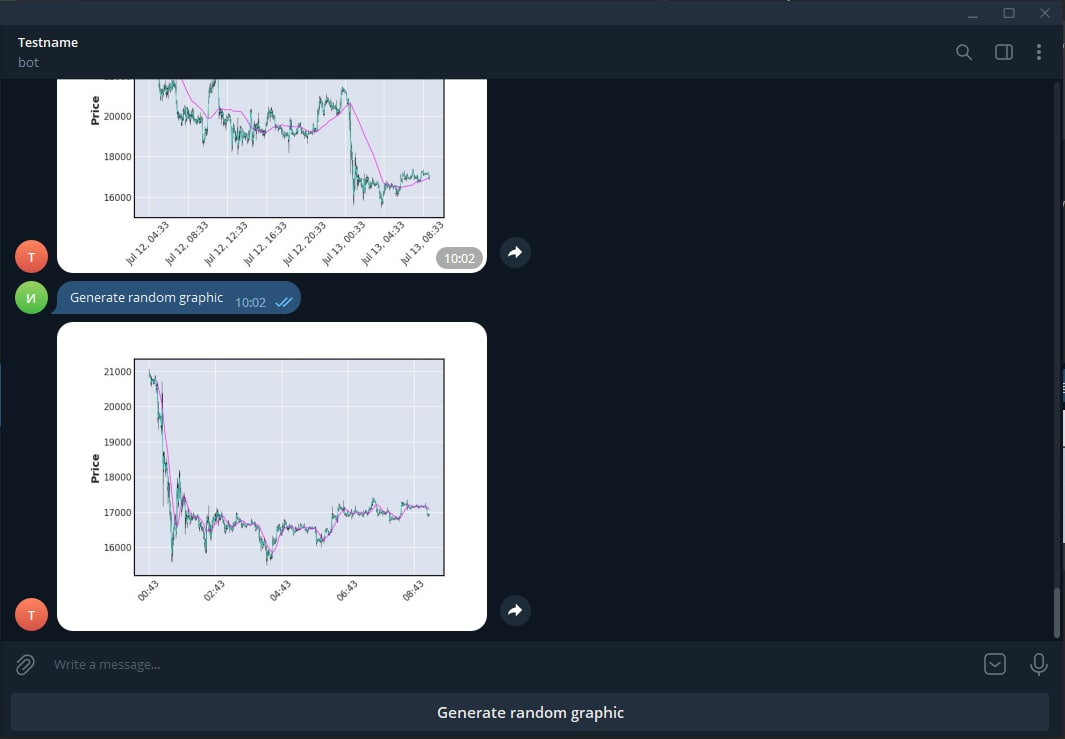
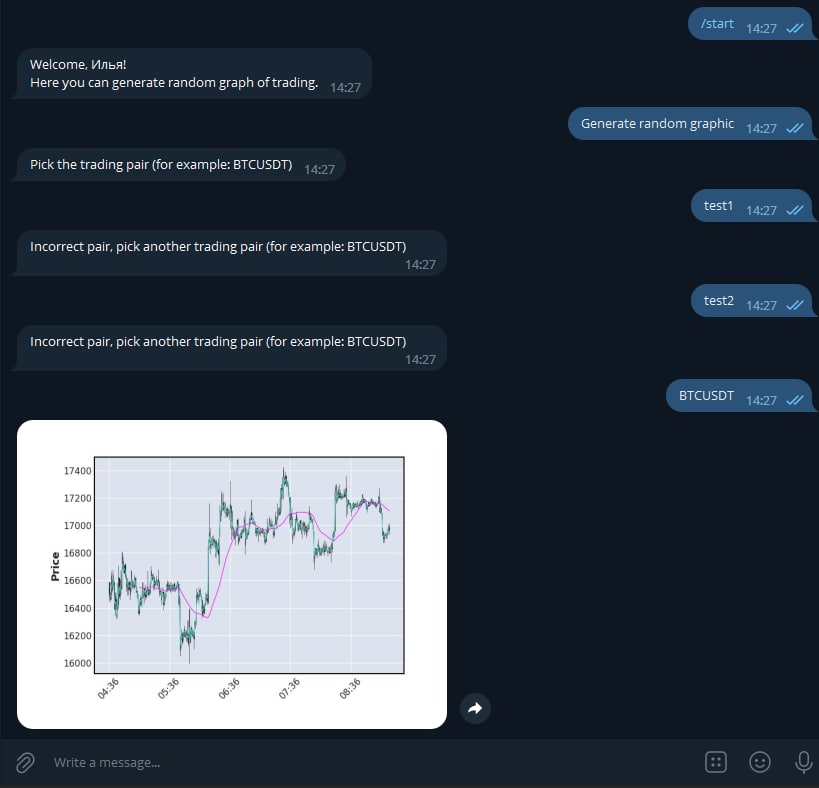
ШьImplemente a feature that allows you to choose a pair

diff --git a/telegram_bot.py b/telegram_bot.py
@@ -29,12 +29,31 @@ def welcome(message):
 
 
 @bot.message_handler(content_types=["text"])
+def commands(message):
+    if message.text == "Generate random graphic":
+        pm = bot.send_message(
+            message.chat.id, "Pick the trading pair (for example: BTCUSDT)"
+        )
+        bot.register_next_step_handler(pm, send_image)
+    else:
+        bot.send_message(message.chat.id, "Incorrect command")
+
+
 def send_image(message):
-    if message.chat.type == "private":
-        if message.text == "Generate random graphic":
-            bot.send_photo(message.chat.id, get_image_url())
-        else:
-            bot.send_message(message.chat.id, "Incorrect command")
+    pair = message.text
+    try:
+        photo_url = get_image_url(pair)
+        bot.send_photo(message.chat.id, photo_url)
+    except AttributeError:
+        pm = bot.send_message(
+            message.chat.id,
+            (
+                "Incorrect pair, "
+                "pick another trading pair "
+                "(for example: BTCUSDT)"
+            ),
+        )
+        bot.register_next_step_handler(pm, send_image)
 
 
 bot.polling(none_stop=True)

diff --git a/image.py b/image.py
@@ -4,10 +4,9 @@ from bs4 import BeautifulSoup
 
 AVAILABLE_TIMEFRAMES = ["5m", "15m", "1h", "4h", "1d", "1w", "1M"]
 URL = "https://paper-trader.frwd.one/"
-PAIR = "BTCUSDT"
 
 
-def get_image_url():
+def get_image_url(pair: str) -> str:
     timeframe = AVAILABLE_TIMEFRAMES[
         random.randint(0, len(AVAILABLE_TIMEFRAMES) - 1)
     ]
@@ -17,7 +16,7 @@ def get_image_url():
     stop_loss = str(random.randint(1, 100))
 
     data = {
-        "pair": PAIR,
+        "pair": pair,
         "timeframe": timeframe,
         "candles": candles,
         "ma": ma_periods,
